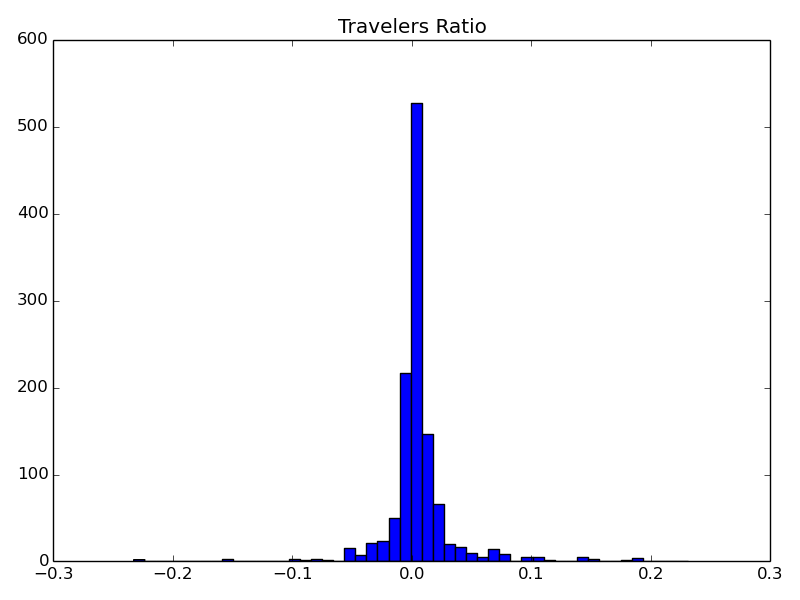
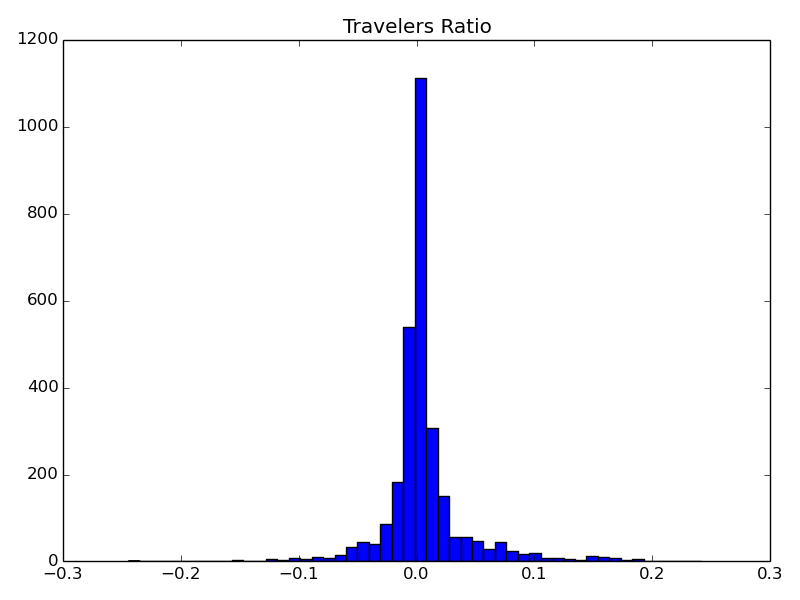
updates

diff --git a/src/master_writer.py b/src/master_writer.py
@@ -54,7 +54,7 @@ def run(DMSOgenes,DMSOTSS,DMSOEND,CAgenes,CATSS,CAEND,filedir,figuredir):
                 coverage = '0'
             d[gene].append(coverage)
             
-    coveragecutoff = 200
+    coveragecutoff = 2000
     TRlist = list()
     TRgenes = list()
     DMSOTRgenes = list()
